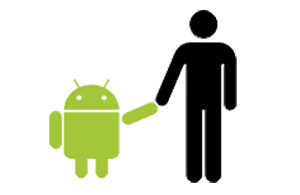
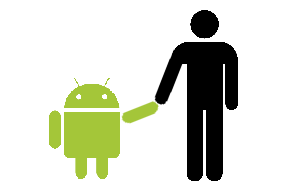
some improvements and mobile css style

diff --git a/desafios/d010/style.css b/desafios/d010/style.css
@@ -13,6 +13,7 @@
 :root {
     --blue1: #008cff;
     --blue2: #02579c;
+    --alpha: #00254400;
     --grey1: #2b2b2b;
     --grey2: #161616;
 
@@ -24,7 +25,7 @@
 body {
     font-family: var(--default-font);
     margin: 0px;
-    background-image: linear-gradient(45deg, var(--grey1), var(--grey2));
+    overflow-x: hidden; /* ??? */
 }
 
 p {
@@ -41,8 +42,11 @@ header {
 header > h1 {
     font-family: var(--header-font);
     font-size: 4em;
+    font-weight: 200;
+
     text-shadow: 2px 2px 1px rgba(0, 0, 0, 0.493);
     text-align: center;
+
     margin: 0px;
     padding: 80px 10px 10px 10px;
     
@@ -86,53 +90,90 @@ main {
     margin: auto;
     margin-bottom: 30px;
     padding: 20px;
-
-    border-radius: 0 0 10px 10px;
-    box-shadow: 1px 3px 5px rgba(0, 0, 0, 0.822);
-}
-
-article > h1 {
-    color: var(--blue2);
-    font-size: 1.7em;
-    margin-top: 0px;
-    text-shadow: 1px 1px 1px rgba(0, 0, 0, 0.205);
 }
 
 article > h1 {
     font-family: var(--android-font);
+    font-size: 1.7em;
+    font-weight: 200;
+
+    color: var(--blue2);
+    text-shadow: 1px 1px 1px rgba(0, 0, 0, 0.205);
+
+    margin-top: 0px;
+}
+
+article > h1 {
+    
 }
 
 article > h2 {
     color: white;
     font-family: idroid, cursive;
-    font-size: 1.4em;
+    font-size: 1.3em;
     font-weight: 100;
 
-    background-image: linear-gradient(90deg,var(--blue2),rgba(255, 255, 255, 0));
+    background-image: linear-gradient(90deg,var(--blue2)20%,var(--alpha)95%);
+    padding: 2px 10px;
+    border-radius: 10px 0 0 10px;
 }
 
-img {
+main img {
     display: block;
     margin: auto;
+    width: 100%;
+}
+
+main img.pequena {
+    display: block;
+    margin: auto;
+    max-width: 350px;
 }
 
 div.video {
-    background-color: #02579c;
     text-align: center;
-    margin: 0 -20px 0 -20px;
-    padding: 20px;
+
+    background-color: #02579c;
+
+    width: 100vw; /* ??? */
+    max-width: 100vw; /* ??? */
+    margin-left: calc(-50vw + 50%); /* ??? */
+
+    padding: 50px 0;
 }
 
 div.video > iframe {
     border: 5px solid #002d55;
 }
 
+/* aside */
+
+aside {
+    max-width: 900px;
+    border: 2px solid black;
+
+    margin: 80px auto;
+    padding: 10px 100px;
+}
+
+aside > h3 {
+    text-align: center;
+    font-size: 1.5em;
+    margin: 30px 0;
+}
+
+aside > ul {
+    columns: 2;
+    margin: 50px 0px;
+}
+
+
 /* footer */
 
 footer {
     text-align: center;
     color: white;
-    background-color: #02579c;
+    background-color: #003b6b;
 }
 
 footer > p {
@@ -141,6 +182,71 @@ footer > p {
     margin-bottom: 0px;
 }
 
-footer > p > a {
+footer a {
     color: white;
+}
+
+/* Celular */
+@media (max-width: 470px) {
+    /* header */
+    header h1 {
+        padding: 30px 5px 5px 5px;
+        font-size: 15vw;
+    }
+
+    header p {
+        font-size: 5vw;
+        margin: -1px;
+    }
+
+    /* nav */
+    nav {
+        text-align: center;
+        padding: 50px 5px 10px 5px;   
+        font-size: 3.5vw;
+    }
+
+    nav > a {
+        padding: 5px;
+        margin-right: 10px;
+    }
+    /* main */
+    main {
+        padding: 5px;
+    }
+
+    main h1 {
+        text-align: center;
+        font-size: 7.7vw;
+    }
+    main h2 {
+        font-size: 5vw;
+        border-radius: 0px;
+        background-image: linear-gradient(90deg,var(--blue2)40%,var(--alpha));
+
+        width: 100vw; /* ??? */
+        max-width: 100vw; /* ??? */
+        margin-left: calc(-50vw + 50%); /* ??? */
+    }
+
+    div > iframe {
+        max-width: 300px;
+    }
+
+    /* aside */
+
+    aside {
+        padding: 5px;
+        margin: 40px 0px; 
+    }
+
+    aside ul {
+        columns: 1;
+    }
+
+    /* footer */
+    footer {
+        padding: 0;
+        font-size: 3.3vw;
+    }
 }

diff --git a/desafios/d010/index.html b/desafios/d010/index.html
@@ -24,7 +24,7 @@
         <main>
             <article>
                 <h1>História do Mascote do Android</h1>
-                <p>Provavelmente você sabe que o sistema operacional <strong>Android</strong>, mantido pelo <strong>Google</strong> é um dos mais utilizados para dispositivos móveis em todo o mundo. Mas tavez você não saiba que o seu simpático mascote tem um nome e uma história muito curiosa? Pois acompanhe esse artigo para aprender muita coisa sobre esse robozinho.</p>
+                <p>Provavelmente você sabe que o sistema operacional <strong>Android</strong>, mantido pelo <strong>Google</strong> é um dos mais utilizados para dispositivos móveis em todo o mundo. Mas talvez você não saiba que o seu simpático mascote tem um nome e uma história muito curiosa? Pois acompanhe esse artigo para aprender muita coisa sobre esse robozinho.</p>
 
                 <h2>A primeira versão</h2>
                 <p>A primeira tentativa de criar um mascote surgiu em 2007 e veio de um desenvolvedor chamado <a href="https://androidcommunity.com/dan-morrill-shows-us-the-android-mascot-that-almost-was-20130103/" rel="author" target="_blank">Dan Morrill</a>. Ele conta que abriu o <a href="https://inkscape.org/pt-br/" rel="external" target="_blank">Inkscape</a> (software livre para vetorização de imagens) e criou sua própria versão de robô. O objetivo era apenas personificar o sistema apenas para a a sua equipe, não existia nenhuma solicitação da empresa para a criação de um mascote.</p>
@@ -41,7 +41,7 @@
                     <img src="imagens/irina-blok.jpg" alt="Fotografia da Irina Blok, em perfil, enquadrando o rosto.">
                 </picture>
                 <p>A ideia principal da Irina era representar tudo graficamente com poucos traços e de forma mais chapada. O desenho também deveria gerar identificação rápida com quem o olha. Surgiu então o <strong>Bugdroid</strong>, o novo mascote do Android.</p>
-                <img src="imagens/bugdroid.png" alt="desenho humano dando a mão para um robô verde, que é o bugdroid">
+                <img class="pequena" src="imagens/bugdroid.png" alt="desenho humano dando a mão para um robô verde, que é o bugdroid">
                 <p>A principal inspiração para os traços do novo <strong>Bugdroid</strong> veio daqueles bonequinhos que ilustram portas de banheiro para indicar o gênero de cada porta. Conta a lenda que a artista estava criando em sua mesa no escritório do <strong>Google</strong> e olhou para o lado dos banheiros e a identificação foi imediata: simples, limpo, objetivo.</p>
 
                 <div class="video">
